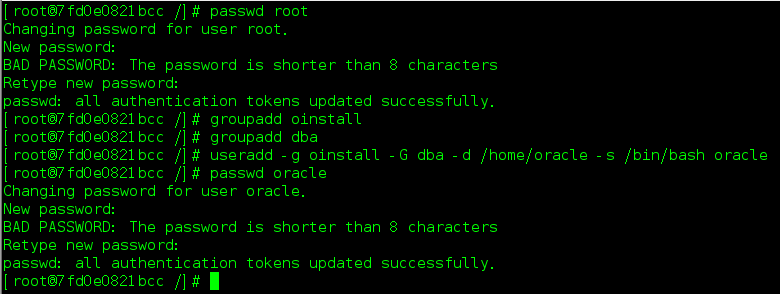
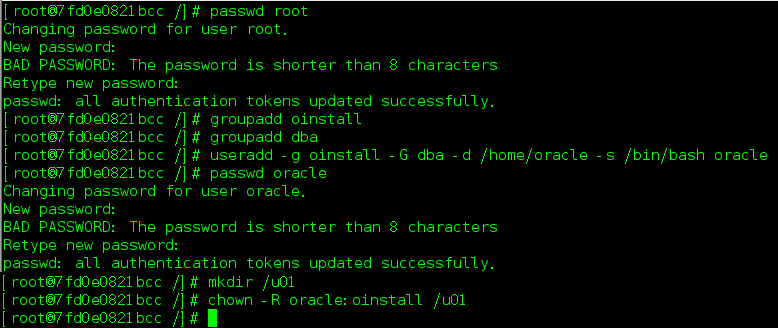
install oracle 11g -- create user oracle and groups

Changed region(s): [[0.0, 0.0, 1.0, 1.0]]

diff --git a/Docker.md b/Docker.md
@@ -146,18 +146,21 @@ ESC+:wq保存退出
 3. 创建Oracle用户和组  
 
 - 首先为root用户设置密码  
-`passwd root`  
+	`passwd root`  
 如果passwd命令还未安装，先安装passwd命令：`yum install passwd`
 - 创建oracle用户和组  
-`groupadd oinstall`  
-`groupadd dba`  
-`useradd -g oinstall -G dba -d /home/oracle -s /bin/bash oracle`  
+	`groupadd oinstall`  
+	`groupadd dba`  
+	`useradd -g oinstall -G dba -d /home/oracle -s /bin/bash oracle`  
 为oracle用户设置密码  
-`passwd oracle`  
+	`passwd oracle`  
+- 创建oracle安装目录，并赋予oracle用户权限  
+	`mkdir /u01`  
+	`chown -R oracle:oinstall /u01`  
 ![创建用户和组](images/docker/centos/install/oracle/创建用户和组.png "创建用户和组")  
 
-#####修改内核参数
-1. 修改/etc/sysctl.conf 文件  
+4. 修改内核参数
+- 修改/etc/sysctl.conf 文件  
 	`vi /etc/sysctl.conf`  
 	修改以下参数：  
 		- kernel.shmall = 2097152				//系统一次可以使用的共享内存总量  
@@ -176,7 +179,7 @@ ESC+:wq保存退出
 	`kernel.sem = 250 32000 100 128`  
 	`net.ipv4.ip_local_port_range = 9000 65500`  
 	运行`sysctl -p`，使设置立即生效
-2. 为oracle用户设置Shell限制  
+- 为oracle用户设置Shell限制  
 	`vi /etc/security/limits.conf`，添加如下行：  
 	`oracle           soft    nproc   2047`  
 	`oracle           hard    nproc   16384`  
@@ -185,6 +188,8 @@ ESC+:wq保存退出
 	`vi /etc/pam.d/login`，添加如下行：  
 	` session    required     pam_limits.so`  
 ![修改内核参数](images/docker/centos/install/oracle/修改内核参数.png "修改内核参数")  
+
+
 ###在容器与主机之间传输文件
 ####从主机拷贝文件到容器中
 1. 使用命令 sudo cp [host file path] /var/lib/docker/aufs/mnt/[full container id]/[target file path]  
